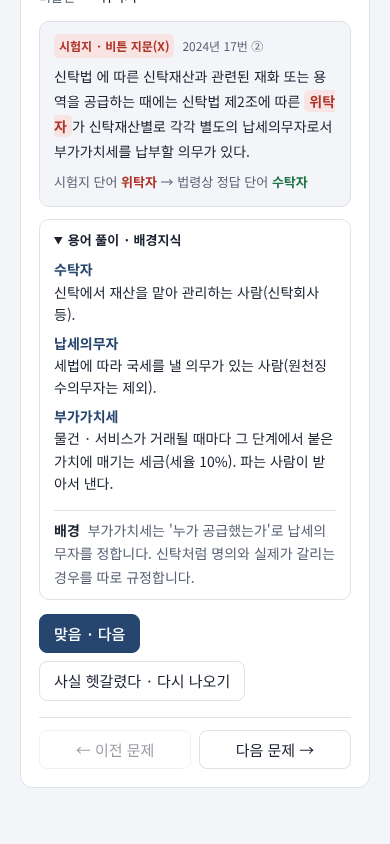
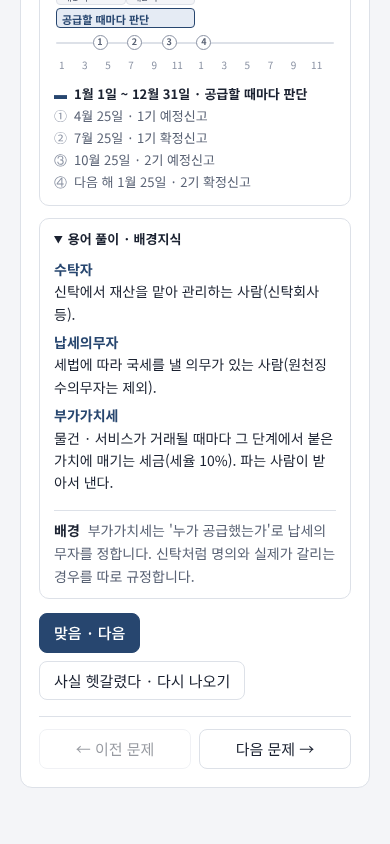
모든 카드에 '1년 중 언제 쓰이는 규정인가' 연간 그래프 표시 (절별 위치 데이터)
Claude-Session: https://claude.ai/code/session_016n9witkqNa6M5YMPXhVyUF

diff --git a/data/yearmap.js b/data/yearmap.js
@@ -1,0 +1,89 @@
+// 절별 "1년 중 언제 쓰이는 규정인가". 카드에 따로 정한 연간 그래프(timeline.js의 k:"y")가 없으면 이 절 설정으로 그린다.
+// 형식은 timeline.js와 같다. cap: 그래프 위에 붙는 한 줄 설명.
+// 국세기본법 · 국세징수법처럼 세목을 가리지 않는 규정은 개인 종합소득세 일정(올해 소득 → 다음 해 5월 신고)을 예로 든다.
+window.TAX_YEARMAP = {
+  /* ---------- 국세기본법 ---------- */
+  c1s1: { k: "y", tax: "inc", cap: "특정 시점이 없는 기본 정의 — 1년 내내 모든 단계에 적용", band: [["1-1", "+12-31", "연중 적용"]] },
+  c1s2: { k: "y", tax: "inc", cap: "신고 · 납부 마감일이 공휴일이거나 전산 장애가 생겼을 때 적용", hl: [["+5-31", "종합소득세 신고 · 납부기한 — 이 기한이 막히면 뒤로 연장"]] },
+  c1s3: { k: "y", tax: "inc", cap: "세무서가 고지서 등 서류를 보낼 때 적용(개인 종합소득세 예시)", band: [["+6-1", "+12-31", "신고 후 세무서가 결정 · 고지서를 송달하는 시기"]] },
+  c2s1: { k: "y", tax: "inc", cap: "신고 · 세무조사 · 과세 처분 전 단계에 걸쳐 적용되는 원칙", band: [["1-1", "+12-31", "연중 적용"]] },
+  c2s2: { k: "y", tax: "inc", cap: "세법을 해석 · 적용하는 모든 단계에 적용되는 원칙", band: [["1-1", "+12-31", "연중 적용"]] },
+  c3s1: { k: "y", tax: "inc", cap: "세금이 생기고(성립) 금액이 정해지는(확정) 시점", hl: [["12-31", "과세기간 끝 → 소득세 납세의무 성립"], ["+5-31", "신고 → 세액 확정"]], band: [["+6-1", "+12-31", "무신고면 세무서 결정으로 확정"]] },
+  c3s3: { k: "y", tax: "inc", cap: "공유물 · 공동사업에서 생긴 세금을 낼 때 적용", band: [["1-1", "12-31", "공동사업 소득 발생"]], hl: [["+5-31", "신고 · 납부 — 공동사업자가 연대 책임"]] },
+  c3s4: { k: "y", tax: "inc", cap: "신고기한 다음 날부터 부과 · 징수할 수 있는 기간이 흐르기 시작", hl: [["+6-1", "부과제척기간 기산일(신고기한 다음 날)"]], band: [["+6-1", "+12-31", "→ 5년 · 7년 · 10년 동안 계속"]] },
+  c4s1: { k: "y", tax: "inc", cap: "체납 세금과 저당권 등 다른 채권의 순위를 정할 때 적용", hl: [["+5-31", "신고한 세액의 법정기일 = 신고일"]], band: [["+6-1", "+12-31", "고지한 세액의 법정기일 = 고지서 발송일"]] },
+  c4s2: { k: "y", tax: "inc", cap: "본래 납세자가 체납해 재산으로도 부족할 때 적용", band: [["+7-1", "+12-31", "체납 후 부족분을 제2차 납세의무자에게 고지"]] },
+  c5s2: { k: "y", tax: "inc", cap: "신고한 뒤 잘못을 발견했을 때 적용", hl: [["+5-31", "법정신고기한"]], band: [["+6-1", "+12-31", "신고 후 수정신고(증액) · 경정청구(감액, 5년 이내)"]] },
+  c6: { k: "y", tax: "inc", cap: "세금을 더 낸 것이 확인되어 돌려받을 때 적용", band: [["+6-1", "+12-31", "환급금 발생 → 환급(발생일부터 환급가산금)"]] },
+  c7s1: { k: "y", tax: "inc", cap: "고지서를 받고 그 처분에 불복할 때 적용", band: [["+6-1", "+12-31", "고지 후 90일 안에 이의신청 · 심사 · 심판청구"]] },
+  c7s2: { k: "y", tax: "inc", cap: "국세청 심사청구를 진행할 때 적용", band: [["+6-1", "+12-31", "고지 후 90일 안에 청구 → 결정"]] },
+  c7s3: { k: "y", tax: "inc", cap: "조세심판원 심판청구를 진행할 때 적용", band: [["+6-1", "+12-31", "고지 후 90일 안에 청구 → 결정 · 즉시 처분"]] },
+  c72: { k: "y", tax: "inc", cap: "신고 후 세무조사와 그 결과를 다툴 때 적용", band: [["+6-1", "+12-31", "세무조사 → 결과 통지 → 30일 안에 과세전적부심사 → 고지"]] },
+
+  /* ---------- 국세징수법 ---------- */
+  j1: { k: "y", tax: "inc", cap: "고지서의 지정납부기한을 넘기면 체납이 된다", hl: [["+5-31", "법정 신고 · 납부기한(미납)"]], band: [["+6-1", "+12-31", "고지서의 지정납부기한까지도 안 내면 체납"]] },
+  j2s2: { k: "y", tax: "inc", cap: "신고하고도 안 냈거나 세무서가 결정한 세금을 고지 · 독촉할 때", hl: [["+5-31", "신고 · 납부기한(미납)"]], band: [["+6-1", "+12-31", "고지 → 지정납부기한 → 10일 안에 독촉 → 독촉 기한"]] },
+  j2s3: { k: "y", tax: "inc", cap: "재난 · 사업 위기로 기한까지 낼 수 없을 때", hl: [["+5-31", "납부기한 — 그 전에 연장 신청"]], band: [["+6-1", "+12-31", "연장된 기간(강제징수 안 함, 시효 정지)"]] },
+  j2s4: { k: "y", tax: "inc", cap: "납부를 연장 · 유예받으면서 담보를 제공할 때", hl: [["+5-31", "납부기한 연장 신청 시 담보 제공"]], band: [["+6-1", "+12-31", "연장 기간 동안 담보로 보전"]] },
+  j3s1: { k: "y", tax: "inc", cap: "독촉에도 내지 않아 강제징수를 시작할 때", band: [["+7-1", "+12-31", "독촉 기한까지 미납 → 강제징수(압류 · 매각 · 청산)"]] },
+  j3s2: { k: "y", tax: "inc", cap: "강제징수의 첫 단계로 재산을 묶을 때", band: [["+7-1", "+12-31", "독촉 기한까지 미납 → 압류"]] },
+  j3s4: { k: "y", tax: "inc", cap: "압류한 재산을 팔 때", band: [["+9-1", "+12-31", "압류 후 공매"]] },
+  j3s5: { k: "y", tax: "inc", cap: "매각대금을 나눌 때", band: [["+10-1", "+12-31", "매각대금 배분"]] },
+  j4: { k: "y", tax: "inc", cap: "임대차 계약 · 관공서 대금 수령 등 필요할 때마다(연중 수시)", band: [["1-1", "+12-31", "연중 수시 — 계약 전후 확인"]], hl: [["+5-31", "종합소득세 신고기한(신고 후 미납분은 60일 뒤부터 열람)"]] },
+
+  /* ---------- 부가가치세법 ---------- */
+  v1s1: { k: "y", tax: "vat", cap: "거래(공급)할 때마다 누가 납세의무자인지 판단", band: [["1-1", "12-31", "공급할 때마다 판단"]] },
+  v1s2: { k: "y", tax: "vat", cap: "어디서 신고 · 납부하는지 — 신고 때마다 적용", hl: [["7-25", "1기 확정신고 · 납부(사업장별 또는 총괄)"], ["+1-25", "2기 확정신고 · 납부"]] },
+  v1s3: { k: "y", tax: "vat", cap: "사업을 시작할 때(연중 수시)", band: [["1-1", "12-31", "사업 개시일부터 20일 안에 등록"]] },
+  v2s1: { k: "y", tax: "vat", cap: "거래할 때마다 과세 대상인 공급인지 판단", band: [["1-1", "12-31", "재화를 공급할 때마다 판단"]] },
+  v2s2: { k: "y", tax: "vat", cap: "용역을 제공할 때마다 과세 대상인지 판단", band: [["1-1", "12-31", "용역을 제공할 때마다 판단"]] },
+  v2s3: { k: "y", tax: "vat", cap: "수입할 때마다(세관에서 징수)", band: [["1-1", "12-31", "수입신고 수리 때마다 과세"]] },
+  v2s4: { k: "y", tax: "vat", cap: "거래가 1기 · 2기 중 어디에 속하는지 정하는 규정", band: [["1-1", "6-30", "여기 속하면 7월 25일 신고"], ["7-1", "12-31", "여기 속하면 다음 해 1월 25일 신고"]] },
+  v3s1: { k: "y", tax: "vat", cap: "수출 등 거래할 때 적용 → 신고 때 영세율 과세표준으로 신고", band: [["1-1", "12-31", "거래할 때마다 적용"]] },
+  v3s2: { k: "y", tax: "vat", cap: "면세 재화 · 용역을 거래할 때 적용", band: [["1-1", "12-31", "거래할 때마다 적용"]] },
+  v4s1: { k: "y", tax: "vat", cap: "거래마다 공급가액을 계산하고, 신고 때 합계해 과세표준으로", band: [["1-1", "12-31", "거래마다 공급가액 계산"]], hl: [["7-25", "1기 과세표준 신고"], ["+1-25", "2기 과세표준 신고"]] },
+  v4s2: { k: "y", tax: "vat", cap: "매입할 때 세금계산서를 받고, 신고 때 매출세액에서 뺀다", band: [["1-1", "12-31", "매입할 때 세금계산서 수취"]], hl: [["7-25", "1기 신고 때 매입세액 공제"], ["+1-25", "2기 신고 때 매입세액 공제"]] },
+  v5: { k: "y", tax: "vat", cap: "공급할 때마다 세금계산서 발급(월합계는 다음 달 10일)", band: [["1-1", "12-31", "공급할 때마다 발급 · 다음 날 전송"]] },
+  v6: { k: "y", tax: "vat", cap: "1년에 신고 4번(개인 일반과세자는 예정분을 고지로 낼 수 있음)", hl: [["4-25", "1기 예정신고"], ["7-25", "1기 확정신고 · 납부"], ["10-25", "2기 예정신고"], ["+1-25", "2기 확정신고 · 납부"]] },
+  v7: { k: "y", tax: "vat", cap: "올해 공급대가로 다음 해 7월 1일부터 간이 · 일반이 바뀐다", band: [["1-1", "12-31", "판정 기준 연도(공급대가 1억 400만 원 기준)"]], hl: [["+1-25", "간이과세자는 1년에 1번 신고"], ["+7-1", "간이 · 일반 전환"]] },
+  v8: { k: "y", tax: "vat", cap: "거래마다 기록하고 확정신고 기한부터 5년 보관", band: [["1-1", "12-31", "거래마다 장부 기록"]], hl: [["+1-25", "확정신고 기한 → 여기서부터 5년 보존"]] },
+
+  /* ---------- 소득세법 ---------- */
+  i1s1: { k: "y", tax: "inc", cap: "과세기간 동안의 상황으로 누가 납세의무자인지 판단", band: [["1-1", "12-31", "과세기간 동안 거주 · 소득 귀속 판단"]], hl: [["12-31", "과세기간 끝 → 납세의무 성립"]] },
+  i1s2: { k: "y", tax: "inc", cap: "1년 단위 과세기간과 신고할 세무서", hl: [["+5-31", "주소지 관할 세무서에 확정신고"]] },
+  i2s1: { k: "y", tax: "inc", cap: "받을 때 원천징수, 연 2천만 원을 넘으면 다음 해 5월에 합산 신고", band: [["1-1", "12-31", "이자 · 배당 받을 때 14% 원천징수"]], hl: [["+5-31", "금융소득 2천만 원 초과분 종합과세 신고"]] },
+  i2s2: { k: "y", tax: "inc", cap: "1년 사업소득을 다음 해 5월에 신고", band: [["1-1", "12-31", "사업소득 발생(비과세 여부 판단)"]], hl: [["+5-31", "종합소득세 신고"]] },
+  i2s3: { k: "y", tax: "wh", cap: "매월 급여에서 원천징수 → 다음 해 2월 연말정산", band: [["1-1", "12-31", "매월 급여 지급 · 원천징수"]], hl: [["+2-28", "연말정산(2월 급여)"], ["+3-10", "연말정산분 원천세 납부"]] },
+  i2s4: { k: "y", tax: "inc", cap: "지급받을 때 원천징수, 일정 금액을 넘으면 다음 해 5월 합산 신고", band: [["1-1", "12-31", "강연료 · 원고료 등 받을 때 원천징수"]], hl: [["+5-31", "기타소득금액 300만 원 초과 시 종합과세 신고"]] },
+  i2s5: { k: "y", tax: "inc", cap: "1년 소득을 모은 뒤 신고 때 결손금을 공제", hl: [["12-31", "1년 소득 · 결손 확정"], ["+5-31", "신고 때 다른 소득과 통산 · 이월"]] },
+  i2s6: { k: "y", tax: "wh", cap: "연말 기준으로 공제 대상을 판단해 연말정산 · 5월 신고 때 적용", hl: [["12-31", "공제 대상 판단 기준일(과세기간 종료일)"], ["+2-28", "연말정산 때 인적공제 적용"]] },
+  i2s7: { k: "y", tax: "inc", cap: "종합소득세 신고 · 납부와 분납", hl: [["+5-31", "확정신고 · 납부기한"], ["+7-31", "분납 기한"]] },
+  i3s1: { k: "y", tax: "inc", cap: "부동산 · 주식 등을 팔 때마다 양도소득 해당 여부 판단", band: [["1-1", "12-31", "양도할 때마다 판단"]], hl: [["+5-31", "여러 건이면 확정신고로 합산"]] },
+  i3s2: { k: "y", tax: "inc", cap: "가족 간 증여 후 양도할 때 양도차익 계산에 적용", band: [["1-1", "12-31", "양도할 때 증여 시점부터 10년 이내인지 확인"]] },
+  i3s3: { k: "y", tax: "inc", cap: "팔 때마다 예정신고, 다음 해 5월 확정신고", band: [["1-1", "12-31", "양도한 달 말일부터 2개월 안에 예정신고"]], hl: [["+5-31", "양도소득세 확정신고"]] },
+  i4: { k: "y", tax: "wh", cap: "소득을 지급할 때마다 원천징수하고 다음 달 10일까지 납부", band: [["1-1", "12-31", "지급할 때마다 원천징수 → 다음 달 10일 납부"]], hl: [["+2-28", "연말정산"]] },
+
+  /* ---------- 법인세법 (12월 결산 법인 가정) ---------- */
+  b1: { k: "y", tax: "corp", cap: "사업연도 단위로 과세", hl: [["12-31", "사업연도 종료"]] },
+  b2s1: { k: "y", tax: "corp", cap: "1년 거래를 결산한 뒤 세무조정으로 익금을 더하고 뺀다", band: [["1-1", "12-31", "거래 발생"]], hl: [["12-31", "결산"], ["+3-31", "세무조정 후 신고"]] },
+  b2s2: { k: "y", tax: "corp", cap: "감자 · 해산 · 자본전입 등이 있을 때 주주(법인)의 익금으로 반영", band: [["1-1", "12-31", "감자 · 자본전입 등 발생"]], hl: [["+3-31", "주주 법인의 신고 때 익금 반영"]] },
+  b2s3: { k: "y", tax: "corp", cap: "결산한 비용 중 세법이 인정하지 않는 것을 신고 때 조정", band: [["1-1", "12-31", "비용 지출"]], hl: [["12-31", "결산"], ["+3-31", "세무조정 후 신고"]] },
+  b2s4: { k: "y", tax: "corp", cap: "지출할 때 증빙을 갖추고, 신고 때 한도를 계산", band: [["1-1", "12-31", "접대 · 기부 지출(3만 원 초과 접대는 적격증빙)"]], hl: [["+3-31", "한도 초과액 손금불산입"]] },
+  b2s5: { k: "y", tax: "corp", cap: "결산 때 감가상각비를 계상하고 신고 때 한도와 비교", hl: [["12-31", "결산 때 감가상각비 계상"], ["+3-31", "상각범위액과 비교해 세무조정"]] },
+  b2s6: { k: "y", tax: "corp", cap: "대손 · 충당금은 결산 때 장부 반영 여부가 핵심", band: [["1-1", "12-31", "대손 사유 발생"]], hl: [["12-31", "결산 때 손비 계상(결산조정 항목)"], ["+3-31", "신고 때 세무조정(신고조정 항목)"]] },
+  b2s7: { k: "y", tax: "corp", cap: "1년 동안 운행기록을 작성하고 신고 때 한도 계산", band: [["1-1", "12-31", "운행기록 작성"]], hl: [["+3-31", "신고 때 비용 한도 계산"]] },
+  b2s8: { k: "y", tax: "corp", cap: "수익 · 비용을 어느 사업연도에 넣을지 정하는 규정", band: [["1-1", "12-31", "이 사업연도에 넣을지 판단"]], hl: [["12-31", "사업연도 경계"]] },
+  b2s9: { k: "y", tax: "corp", cap: "사업연도 말에 자산 · 부채를 평가", hl: [["9-30", "평가방법 변경 신고 기한(종료일 이전 3개월)"], ["12-31", "사업연도 말 평가"]] },
+  b2s10: { k: "y", tax: "corp", cap: "특수관계인과 거래할 때 시가 여부를 확인하고 신고 때 조정", band: [["1-1", "12-31", "특수관계인 거래"]], hl: [["+3-31", "시가와 차이를 익금 산입"]] },
+  b2s11: { k: "y", tax: "corp", cap: "신고 때 세무조정 금액의 귀속자를 정하고 원천징수", hl: [["+3-31", "신고 때 소득처분"], ["+4-10", "상여 · 배당 원천세 납부(다음 달 10일)"]] },
+  b3: { k: "y", tax: "corp", cap: "신고 때 과세표준을 계산(이월결손금 공제 등)", hl: [["+3-31", "과세표준 · 세액 계산 후 신고"]] },
+  b4: { k: "y", tax: "corp", cap: "법인세 신고 · 납부와 분납", hl: [["+3-31", "신고 · 납부기한"], ["+4-30", "분납 기한(일반 1개월)"]] },
+
+  /* ---------- 상속세 (매년 반복되는 세금이 아니므로 사망일 기준 흐름) ---------- */
+  s1: { k: "r", unit: "개월", cap: "상속세는 1년 주기가 아니라 사망(상속개시)을 기준으로 진행", pts: [[0, "상속개시일 — 이날 현재 상속재산 범위 확정"], [6, "상속세 신고기한(개시일이 속한 달 말일부터 6개월)"]], hl: [0] },
+  s2: { k: "r", unit: "개월", cap: "상속세는 사망(상속개시)을 기준으로 진행", pts: [[0, "상속개시일 — 채무 · 사전 증여재산 정리"], [6, "신고 때 과세가액 계산"]], hl: [1] },
+  s3: { k: "r", unit: "개월", cap: "상속세는 사망(상속개시)을 기준으로 진행", pts: [[0, "상속개시일"], [6, "신고 때 상속공제 적용(무신고여도 일괄공제는 적용)"]], hl: [1] },
+  s4: { k: "r", unit: "개월", cap: "상속세는 사망(상속개시)을 기준으로 진행", pts: [[0, "상속개시일 시가로 평가"], [6, "신고기한"]], hl: [0] },
+  /* ---------- 종합부동산세 ---------- */
+  s5: { k: "y", tax: "comp", cap: "6월 1일 소유자에게 매기고 12월에 낸다", hl: [["6-1", "과세기준일(이날 소유자에게 과세)"], ["12-15", "납부기한"]] }
+};

diff --git a/index.html b/index.html
@@ -177,7 +177,8 @@ button.pr-btn{color:var(--pr);border-color:var(--pr)}
 .pr-reason{font-size:14px;color:var(--pr);margin-top:4px;line-height:1.6}
 .prow .pr{margin-left:4px}
 .tl{margin-top:12px;border:1px solid var(--line);border-radius:10px;padding:12px 14px;background:var(--surface)}
-.tl-h{font-size:13px;font-weight:700;color:var(--ink);margin-bottom:10px}
+.tl-h{font-size:13px;font-weight:700;color:var(--ink);margin-bottom:4px}
+.tl-cap{font-size:13px;color:var(--accent);margin-bottom:10px;line-height:1.5}
 .tl-chart{position:relative;padding:0 2px}
 .tl-yrs{display:grid;grid-template-columns:1fr 1fr;font-size:11px;color:var(--muted);margin-bottom:4px}
 .tl-yrs span:last-child{border-left:1px dashed var(--line);padding-left:6px}
@@ -225,6 +226,7 @@ button.pr-btn{color:var(--pr);border-color:var(--pr)}
 <script src="data/pairs.js"></script>
 <script src="data/practical.js"></script>
 <script src="data/timeline.js"></script>
+<script src="data/yearmap.js"></script>
 <script src="data/glossary.js"></script>
 <script>
 const TRAPS = {
@@ -1042,7 +1044,7 @@ function renderFreq(filter) {
 /* ---------- 과세기간 그래프 ---------- */
 const TL_BASE = {
   vat: { bands: [["1-1", "6-30", "제1기"], ["7-1", "12-31", "제2기"]], marks: [["4-25", "1기 예정신고"], ["7-25", "1기 확정신고"], ["10-25", "2기 예정신고"], ["+1-25", "2기 확정신고"]] },
-  inc: { bands: [["1-1", "12-31", "과세기간"], ["+5-1", "+5-31", "확정신고"]], marks: [] },
+  inc: { bands: [["1-1", "12-31", "과세기간"]], marks: [["+5-31", "종합소득세 확정신고 · 납부기한"]] },
   corp: { bands: [["1-1", "12-31", "사업연도 (12월 결산 가정)"]], marks: [["+3-31", "법인세 신고 · 납부기한"]] },
   wh: { bands: [["1-1", "12-31", "소득 지급 연도"]], marks: [] },
   comp: { bands: [["12-1", "12-15", "종부세 납부"]], marks: [["6-1", "과세기준일"]] }
@@ -1055,8 +1057,15 @@ function tlPos(s, end) {
 function tlDate(s) { const plus = s[0] === "+", [m, d] = s.replace("+", "").split("-"); return (plus ? "다음 해 " : "") + +m + "월 " + +d + "일"; }
 const CIRC = "①②③④⑤⑥⑦⑧⑨⑩⑪⑫";
 function tlHTML(c) {
-  const sp = (window.TAX_TIMELINE || {})[c.id];
-  if (!sp) return "";
+  const own = (window.TAX_TIMELINE || {})[c.id], sec = (window.TAX_YEARMAP || {})[c.s];
+  const year = own && own.k === "y" ? Object.assign({ cap: sec && sec.k === "y" ? sec.cap : "" }, own) : sec;
+  const rel = own && own.k === "r" ? own : null;
+  let h = "";
+  if (year) h += tlSpecHTML(year, year.k === "y" ? "1년 중 언제 쓰이는 규정인가" : "언제 쓰이는 규정인가");
+  if (rel) h += tlSpecHTML(rel, "기준일부터의 기간");
+  return h;
+}
+function tlSpecHTML(sp, title) {
   let chart = "", legend = [];
   if (sp.k === "y") {
     const base = TL_BASE[sp.tax] || { bands: [], marks: [] };
@@ -1081,7 +1090,8 @@ function tlHTML(c) {
       '<div class="tl-ends"><span>0' + sp.unit + "</span><span>" + max + sp.unit + "</span></div></div>";
     legend = sp.pts.map((p, i) => '<li class="' + (hl.has(i) ? "hl" : "") + '"><span class="tl-n">' + CIRC[i] + "</span>" + (p[0] === 0 ? "기준일" : p[0] + sp.unit + " 뒤") + " · " + esc(p[1]) + "</li>");
   }
-  return '<div class="tl"><div class="tl-h">' + (sp.k === "y" ? "1년 과세기간에서의 위치" : "기준일부터의 기간") + (sp.tax === "corp" ? ' <span class="note">· 12월 결산 법인 기준</span>' : "") + "</div>" + chart + '<ol class="tl-leg">' + legend.join("") + "</ol></div>";
+  const taxNote = { corp: "12월 결산 법인 기준", inc: "개인 종합소득세 일정 기준", vat: "부가가치세 일정", wh: "원천징수 · 연말정산 일정", comp: "종합부동산세 일정" }[sp.tax];
+  return '<div class="tl"><div class="tl-h">' + title + (taxNote ? ' <span class="note">· ' + taxNote + "</span>" : "") + "</div>" + (sp.cap ? '<div class="tl-cap">' + esc(sp.cap) + "</div>" : "") + chart + (legend.length ? '<ol class="tl-leg">' + legend.join("") + "</ol>" : "") + "</div>";
 }
 
 /* ---------- 용어 풀이 · 배경지식 ---------- */

diff --git a/sw.js b/sw.js
@@ -1,9 +1,9 @@
 // 세법 빈칸 훈련 · 오프라인 저장 장치
 // 앱 파일은 휴대폰에 저장해 두고, 인터넷이 되면 최신 파일로 바꿔 둔다(네트워크 우선, 실패 시 저장본).
-const VERSION = "taxcloze-v4";
+const VERSION = "taxcloze-v5";
 const CORE = [
   "./", "index.html", "manifest.webmanifest",
-  "data/subjects.js", "data/pairs.js", "data/practical.js", "data/timeline.js", "data/glossary.js", "data/gukgi.js", "data/gukjing.js", "data/sodeuk.js", "data/beobin.js", "data/bugase.js", "data/sangjeung.js",
+  "data/subjects.js", "data/pairs.js", "data/practical.js", "data/timeline.js", "data/yearmap.js", "data/glossary.js", "data/gukgi.js", "data/gukjing.js", "data/sodeuk.js", "data/beobin.js", "data/bugase.js", "data/sangjeung.js",
   "icons/icon-192.png", "icons/icon-512.png", "icons/apple-touch-icon.png", "icons/favicon-64.png"
 ];
 self.addEventListener("install", e => {
